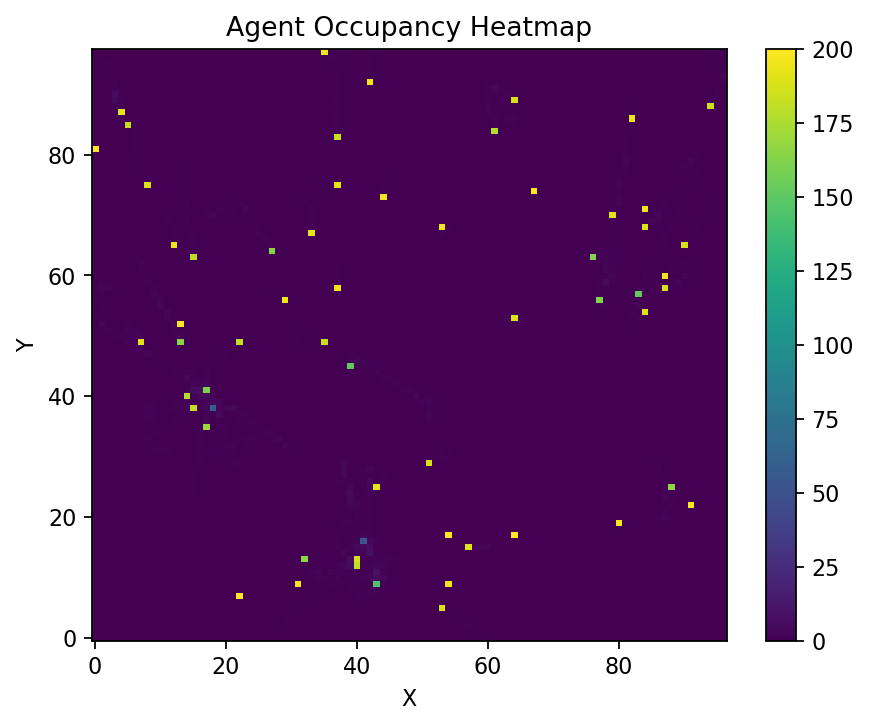
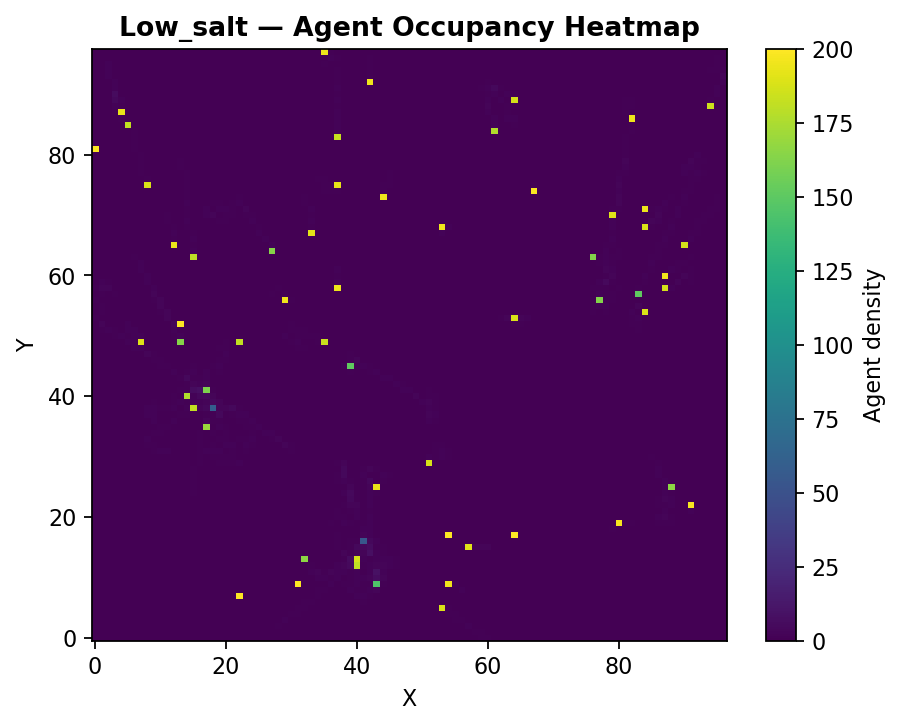
Fix experiments.py: add scenario_name argument to visualization calls

diff --git a/src/experiments.py b/src/experiments.py
@@ -26,8 +26,8 @@ def run_scenario(project_root: Path, name: str, salt_modifier: float = 1.0, slop
     # Basic figures
     heatmap_path = figures_dir / f"heatmap_{name}.png"
     ts_path = figures_dir / f"pop_{name}.png"
-    plot_heatmap(df, heatmap_path)
-    plot_population_timeseries(df, ts_path)
+    plot_heatmap(df, heatmap_path, name)
+    plot_population_timeseries(df, ts_path, name)
     print(f"[{name}] figures saved to {heatmap_path} and {ts_path}")
     return df
 
